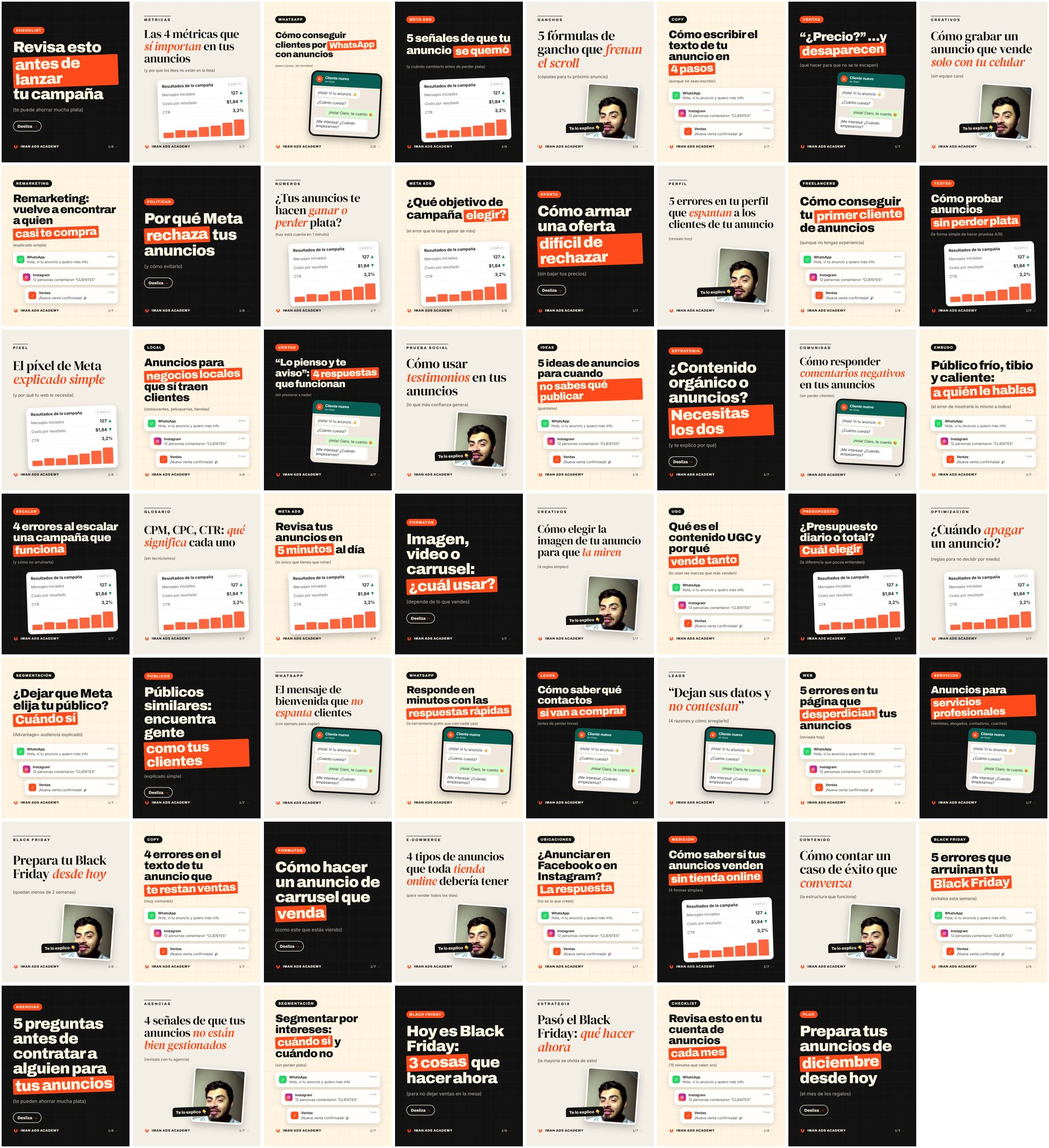
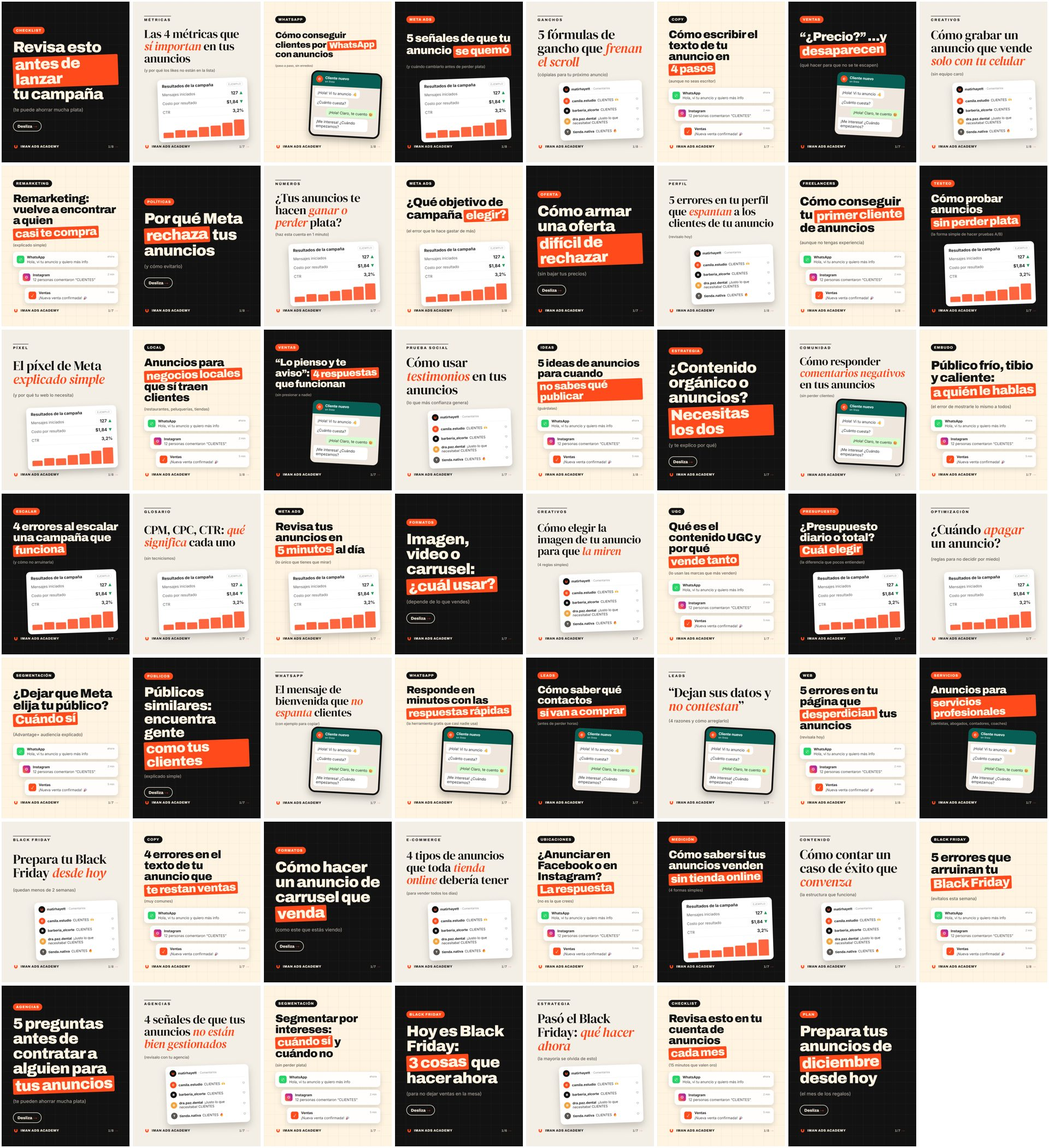
Portadas sin fotos de personas: comentarios de Instagram en lugar de foto

diff --git a/plantilla/estilos.css b/plantilla/estilos.css
@@ -257,3 +257,22 @@ footer { display: flex; justify-content: space-between; align-items: center; fon
 .v-foto .foto-tarjeta { width: 440px; height: 460px; margin-right: 40px; }
 .v-notis { display: flex; flex-direction: column; align-items: stretch; }
 .portada-visual .contenido { justify-content: space-between; }
+
+
+/* Comentarios de Instagram (reemplaza la foto: no se usan caras) */
+.v-comentarios .post {
+  width: 700px; background: #fff; color: #121212; border-radius: 32px; padding: 30px 34px;
+  transform: rotate(-2deg); box-shadow: 0 30px 60px rgba(18, 18, 18, .22);
+}
+.post-cab { display: flex; align-items: center; gap: 14px; font-size: 28px; padding-bottom: 18px; border-bottom: 2px solid #F0F0F0; margin-bottom: 8px; }
+.post-cab small { color: #8A8A8A; }
+.post-logo { width: 56px; height: 56px; border-radius: 50%; background: #121212; display: grid; place-items: center; }
+.post-logo .iman { width: 34px; height: 34px; }
+.post-logo .iman rect { fill: #121212; }
+.com { display: flex; align-items: center; gap: 18px; padding: 14px 0; font-size: 28px; }
+.com p { flex: 1; } .com b { font-weight: 700; margin-right: 6px; }
+.com i { font-style: normal; color: #8A8A8A; font-size: 30px; }
+.com-av { width: 54px; height: 54px; border-radius: 50%; color: #fff; display: grid; place-items: center; font: 800 24px "Archivo"; flex: none; }
+.tuit-logo { width: 110px; height: 110px; border-radius: 50%; background: #121212; display: grid; place-items: center; flex: none; }
+.tuit-logo .iman { width: 64px; height: 64px; }
+.tuit-logo .iman rect { fill: #121212; }
